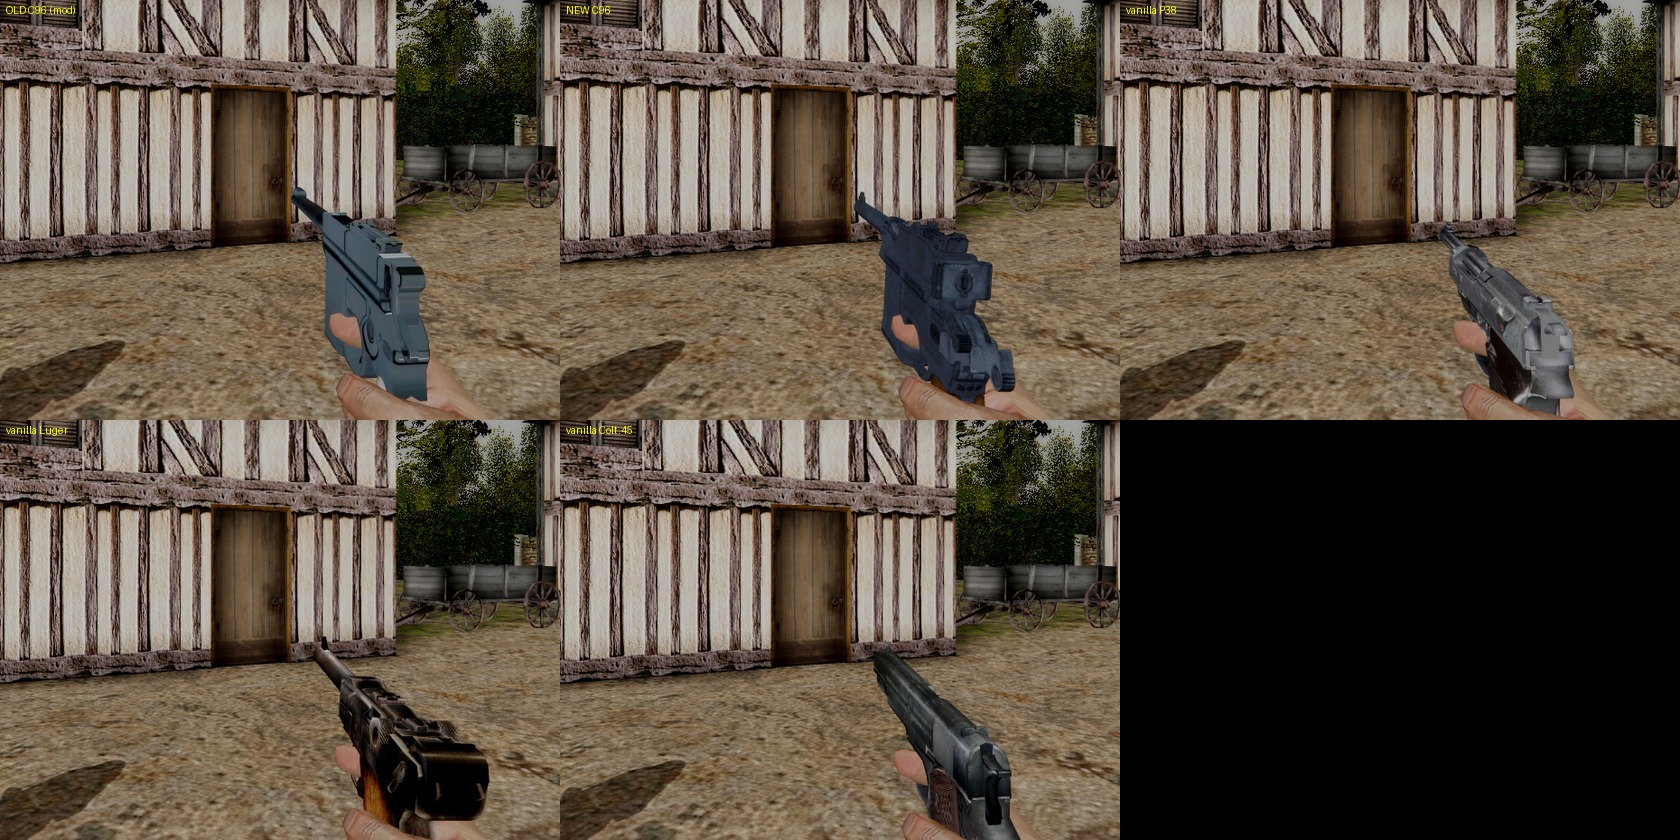
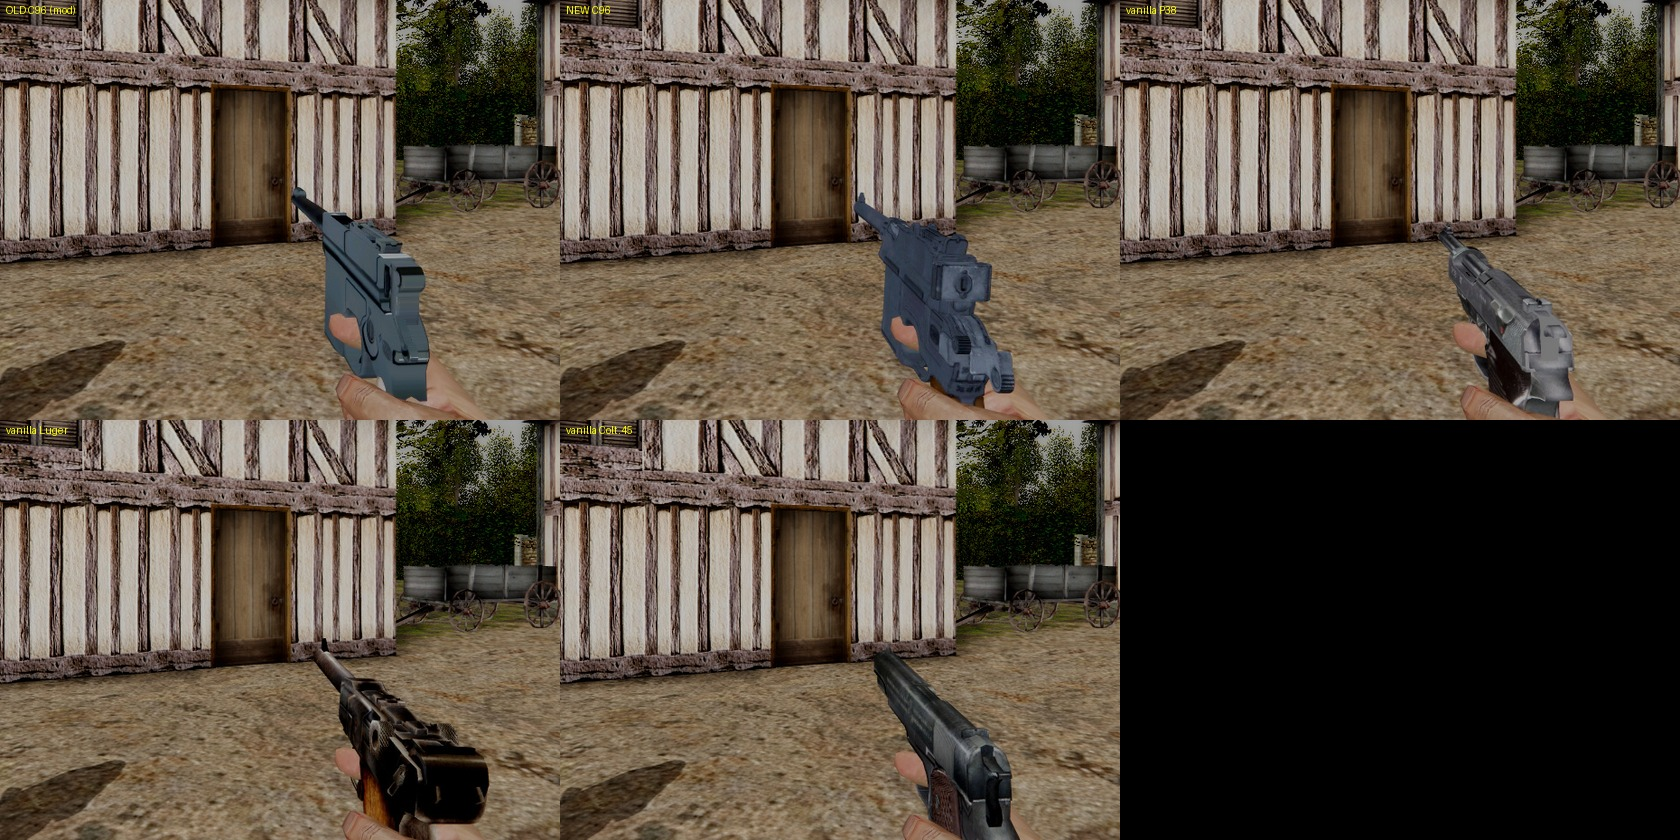
c96 model: side-by-side proof (old C96, vanilla P38/Luger/Colt), finishes sheet, README, FILES; build/ scratch ignored

diff --git a/docs/proposals/c96_model_2026-10-18/tools/mkcmp.py b/docs/proposals/c96_model_2026-10-18/tools/mkcmp.py
@@ -1,0 +1,41 @@
+"""Side-by-side GIF: old C96 (left) vs new C96 (right), same animation, same scene.
+    python mkcmp.py <dirA> <prefixA> <dirB> <prefixB> <out.gif> [--a N --b N --step K --crop x0,y0,x1,y1 --w 360 --ms 60]"""
+import os, re, sys, argparse
+from PIL import Image, ImageDraw
+
+ap = argparse.ArgumentParser()
+ap.add_argument('dirA'); ap.add_argument('pfxA'); ap.add_argument('dirB'); ap.add_argument('pfxB'); ap.add_argument('out')
+ap.add_argument('--a', type=int, default=0); ap.add_argument('--b', type=int, default=10 ** 6); ap.add_argument('--step', type=int, default=1)
+ap.add_argument('--crop', default='0,0,1,1'); ap.add_argument('--w', type=int, default=360); ap.add_argument('--ms', type=int, default=60)
+ap.add_argument('--la', default='OLD C96 (mod)'); ap.add_argument('--lb', default='NEW C96 (no12u)')
+a = ap.parse_args()
+
+
+def frames(d, p):
+    out = {}
+    for f in os.listdir(d):
+        m = re.match(re.escape(p) + r'_+(\d{4})\.jpg$', f)
+        if m:
+            out[int(m.group(1))] = os.path.join(d, f)
+    return out
+
+
+A, B = frames(a.dirA, a.pfxA), frames(a.dirB, a.pfxB)
+idx = [i for i in sorted(set(A) & set(B)) if a.a <= i <= a.b][::a.step]
+cr = [float(x) for x in a.crop.split(',')]
+ims = []
+for i in idx:
+    pair = []
+    for src, lab in ((A, a.la), (B, a.lb)):
+        im = Image.open(src[i]).convert('RGB')
+        W, H = im.size
+        im = im.crop((int(W * cr[0]), int(H * cr[1]), int(W * cr[2]), int(H * cr[3])))
+        im = im.resize((a.w, int(im.size[1] * a.w / im.size[0])), Image.LANCZOS)
+        ImageDraw.Draw(im).text((5, 4), '%s  f%d' % (lab, i), fill=(255, 255, 0))
+        pair.append(im)
+    S = Image.new('RGB', (pair[0].size[0] * 2 + 4, pair[0].size[1]), (0, 0, 0))
+    S.paste(pair[0], (0, 0)); S.paste(pair[1], (pair[0].size[0] + 4, 0))
+    ims.append(S)
+qs = [im.quantize(colors=112, method=Image.Quantize.MEDIANCUT, dither=Image.Dither.NONE) for im in ims]
+qs[0].save(a.out, save_all=True, append_images=qs[1:], duration=a.ms, loop=0, optimize=True)
+print(a.out, len(ims), 'frames', os.path.getsize(a.out) // 1024, 'KB')

diff --git a/docs/proposals/c96_model_2026-10-18/README.md b/docs/proposals/c96_model_2026-10-18/README.md
@@ -18,11 +18,12 @@ Source record and look test: `../c96_model_2026-10-13/SOURCE.md`. Base for the h
 * **Fit** (`c96lib.py`): uniform scale (17.3 scaled units long, as the old model), 1.64 deg pitch, so the new rear leaf / front post lie ON the line of the mod's sight row (`cg_adssights.h` F, R) - no engine change. Hammer pin, trigger top, muzzle and port tag come from the source's bones.
 * **Bones**: `coop_slide` = bolt (3.8 raw units back), `coop_tog` = hammer (64.1 deg cocked, as the source), `coop_trig` = trigger; the P38 skeleton's `origin tag_barrel tag_eject Box01 p38clip` kept. Frame, grips, safety, sights, magazine well and the lanyard ring ride on `origin`.
 * **Not separable**: magazine floorplate, safety, sight leaf, grip panels are faces of one shell with the frame; no floorplate bone was made (the C96 has no moving floorplate). Stock, holster, source Clip and loose rounds are not in the game mesh: the server's stripper-clip prop is used.
-* **Sheet**: the shader has no spec / normal stage, so the PBR look is baked into the diffuse: metal re-toned to blued steel (gain tuned against engine frames of the old gun side by side), wood x1.45, normal-map edge darkening, roughness polish.
+* **Sheet**: the shader has no spec / normal stage (vanilla colt45 / p38 / luger are the same: one map + `rgbGen lightingSpherical`), so the PBR look is baked into the diffuse: normal-map LIGHTING (fixed light from the left: machining, engraving, grip ribs), cavity / edge darkening, the source's wear kept as luminance, metal re-toned to blued steel, walnut wood with its grain, roughness polish. Finishes (gold, chrome, blued, bloody, 3 camos) are baked from the same shaded sheet and KEEP the walnut grips (gold/chrome/blued add the mod's env-sheen stage on top).
+* **Lateral 0.85** (`c96lib.LAT`): the source's frame is 12.3 % of its length wide, a real C96's 10.6 %.
 * **Clip seat**: the server prop's seat lands over the new model's own clip-guide slot (checked, `tools/prop_in_gun.py` + top view), so the pistol lane's reload hands are used unchanged.
 
-## Proof (`media/`, from `G:\mohaa-hudfeed2`, run ids g1..g5, frames in the session scratch; 1280x720, 16 ms frames)
-idle 1p, hip fire, ADS shot, ADS reload (rounds left, emptied), hip reload, third person, finishes sheet. In engine log: no TIKI / script error for these files.
+## Proof (`media/`, `G:\mohaa-hudfeed2`, run ids i1..i5, `tools/run_cmp.sh`; 1280x720, 16 ms frames)
+Side by side with the OLD C96 (same animation, same scene): `c96n_idle_vs_old.gif`, `c96n_hip_fire_vs_old.gif`, `c96n_hip_reload_vs_old.gif`, `c96n_ads_shot_vs_old.gif`, `c96n_ads_stripper_reload_vs_old.gif`; `c96n_idle_compare_old_p38_luger_colt.jpg` (hip idle of the new C96 next to the old one, vanilla P38, Luger, Colt: pose, scale and hand-on-grip are the same as the vanilla pistols); `c96n_finishes_sheet.jpg`. Earlier (first texture pass): third person g5 (muzzle flash and recoil of the world model), empty reload g2. In engine log: no TIKI / script error for these files.
 
 ## Not verified
 Armory preview framing and inspect view (xfm of id 74 was fitted to the old bounds; the lanyard ring moves the bounding box about 1 unit down), dropped weapon (`weapdrop` did nothing in the harness), pickup in the world, AI holding it, dedicated server, other players' view of the bolt in the hip reload, prone / crouch / lean / braced ADS reloads, ADS-in-cover and mounted use, stronger ADS shimmer and Colt slide items (engine / other guns, not this lane), sounds, Trench C96 (unchanged), the stripper clip's own mesh (still the Kar98 prop), the old gun's `coop_port` / bolt-bar hacks (gone).
